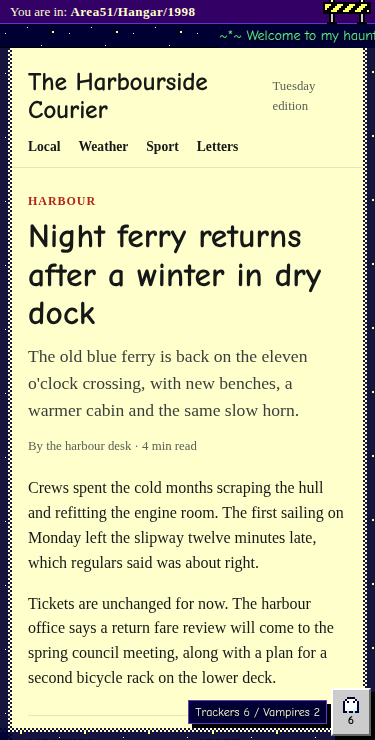
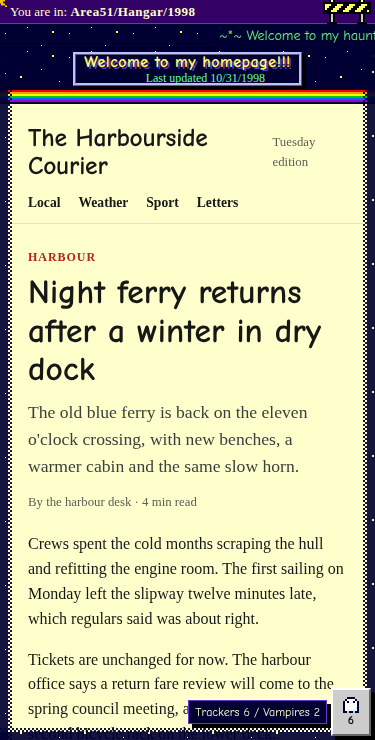
retake readme shots, show both real-site looks

diff --git a/README.md b/README.md
@@ -48,7 +48,13 @@ The seed picks one of 22 named presets, such as Flame Skull Shrine, Cloud Angel 
 
 The layout changes the page itself. Its body is squeezed into a 640 or 800 pixel table, pushed to the left, or put next to a nav frame on the left, a Cool Links column on the right, or both. The furniture around it is built from the page's own links and headings: nav buttons, Cool Links, a What's New box, award ribbons, an under-construction sign, a guestbook mailbox, a visitor counter, a webring box and a tab bar. Its sections become bevelled cells or boxes with a legend, lists get pixel bullets, and headings get a little skull, flame or star. A quiet site gets one big banner over a plain table; a busy one gets three columns of stuff. On a phone it all folds into one column with the furniture at the bottom. None of the page's own nodes are changed, and Un-haunt still puts the page back byte for byte. A short list of rules keeps out pairs that clash, like flames on a pink ground, and a unit test walks every preset with every swap and checks the text contrast. Classic Crypt keeps the original starfield and parchment look.
 
-Two real pages from the same run: nps.gov ([still](docs/real-site-caption-nps.png)) and cdc.gov ([still](docs/real-site-caption-cdc.png)) get different looks. The e2e build alone accepts `?hgtheme=<preset>` in the page address, so the visual tests can show a chosen preset.
+Two real pages from the same run get two different homepages. nps.gov draws Flame Skull Shrine: flames, a nav frame on the left with buttons made from the site's own links, and boxed sections. cdc.gov draws Cloud Angel Page: clouds, a rainbow divider, tabs under the banner and a right-hand column.
+
+![nps.gov as Flame Skull Shrine: a flame tile, a nav-frame column of buttons from the site's own links, a guestbook box and What's New, the page squeezed into an 800px table](docs/real-site-caption-nps.png)
+
+![cdc.gov as Cloud Angel Page: a cloud tile, a rainbow divider, a row of tabs under the welcome banner and a right-hand column with nav buttons, a guestbook and What's New](docs/real-site-caption-cdc.png)
+
+On cdc.gov the narrower table puts the hero panel where the parade crosses, so in that still a plain filler ghost covers part of it; the named tracker ghosts stay clear. The e2e build alone accepts `?hgtheme=<preset>` in the page address, so the visual tests can show a chosen preset.
 
 ## Secrets
 
